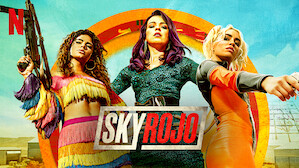
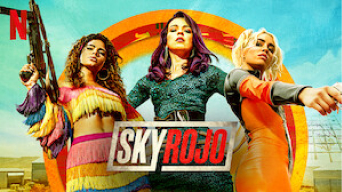
Adicionando responsividade e arrumando tamanho das fotos

diff --git a/assets/css/style.css b/assets/css/style.css
@@ -68,6 +68,11 @@ body {
   color: #FFF;
   font-family: "Roboto", "sans-serif";
 }
+@media (min-width: 375px) and (max-width: 800px) {
+  body {
+    width: calc(100% - 24px);
+  }
+}
 
 .app__background {
   height: 100vh;
@@ -75,6 +80,11 @@ body {
   background-repeat: no-repeat;
   background-size: cover;
   padding: 0.26rem 0.75rem 0 0.75rem;
+}
+@media (min-width: 375px) and (max-width: 800px) {
+  .app__background {
+    width: 111%;
+  }
 }
 
 .app__hero {
@@ -110,10 +120,19 @@ body {
 .header__list-item:hover {
   color: #FFF;
 }
+.header__list-item a {
+  text-decoration: none;
+  color: inherit;
+}
 .header__lists-right {
   display: flex;
   align-items: center;
   cursor: pointer;
+}
+@media (min-width: 375px) and (max-width: 800px) {
+  .header__lists-right {
+    display: none;
+  }
 }
 .header__list-right {
   padding: 0.5rem;
@@ -127,22 +146,35 @@ body {
   display: flex;
   flex-direction: column;
   justify-content: center;
-  width: 40%;
+  width: 30%;
   height: 80%;
   padding: 1rem;
+}
+@media (min-width: 375px) and (max-width: 800px) {
+  .main__banner {
+    width: 50%;
+  }
 }
 .main__subtitle {
   color: #FFF;
   margin: 1rem 0 1rem 0;
-  font-size: 1.2vw;
+  font-size: 1rem;
   line-height: 1.25;
+}
+@media (min-width: 375px) and (max-width: 800px) {
+  .main__subtitle {
+    font-size: 0.8rem;
+  }
+}
+.main__btn {
+  display: flex;
 }
 .main__button-watch, .main__info {
   border: none;
   border-radius: 2px;
   padding: 0.6rem 2rem;
   color: #000;
-  width: 30%;
+  width: auto;
   font-weight: bold;
   cursor: pointer;
 }
@@ -153,7 +185,6 @@ body {
   background-color: #ffffffc6;
 }
 .main__info {
-  width: 40%;
   background: #6d6d6eb3;
   margin-left: 1rem;
   color: #FFF;
@@ -163,6 +194,11 @@ body {
 }
 .main__category {
   padding: 1rem;
+}
+@media (min-width: 375px) and (max-width: 800px) {
+  .main__category {
+    padding: 0;
+  }
 }
 .main__title {
   font-size: 18px;
@@ -178,6 +214,11 @@ body {
 .main__item {
   margin-right: 1.5rem;
 }
+@media (min-width: 375px) and (max-width: 800px) {
+  .main__item {
+    margin-right: 0.5rem;
+  }
+}
 .main__item img {
   transition: all 0.3s;
   cursor: pointer;
@@ -185,6 +226,11 @@ body {
 .main__item img:hover {
   transform: scale(1.1);
   filter: opacity(0.5) drop-shadow(0 0 0 rgba(255, 255, 255, 0.421));
+}
+@media (min-width: 375px) and (max-width: 800px) {
+  .main__item img {
+    width: 15rem;
+  }
 }
 
 .footer {
@@ -207,6 +253,12 @@ body {
   padding: 1rem;
   line-height: 1.5rem;
   transition: all 1s linear;
+}
+@media (min-width: 375px) and (max-width: 800px) {
+  .footer__content-info {
+    flex-direction: column;
+    line-height: 2rem;
+  }
 }
 .footer__list {
   cursor: pointer;

diff --git a/index.html b/index.html
@@ -16,20 +16,21 @@
                 <div class="header__list">
                     <img class="header__img" src="assets/img/logo.png" alt="logo netflix">
                     <ul class="header__lists">
-                        <li class="header__list-item">ínicio</li>
-                        <li class="header__list-item">séries</li>
-                        <li class="header__list-item">filmes</li>
-                        <li class="header__list-item">bombando</li>
-                        <li class="header__list-item">minha lista</li>
+                        <li class="header__list-item">
+                            <a href="#">séries</a>
+                        </li>
+                        <li class="header__list-item">
+                            <a href="#">filmes</a>
+                        </li>
+                        <li class="header__list-item">
+                            <a href="#">categorias</a>
+                        </li>
                     </ul>
                 </div>
                 <div class="header__right">
                     <ul class="header__lists-right">
                         <li class="header__list-right">
                             <i class="fa-solid fa-magnifying-glass"></i>
-                        </li>
-                        <li class="header__list-right">
-                            <i class="fa-solid fa-bell"></i>
                         </li>
                         <li class="header__list-right">
                             <img src="assets/img/user.png" alt="">

diff --git a/assets/sass/pages/_main.scss b/assets/sass/pages/_main.scss
@@ -6,16 +6,28 @@
         display: flex;
         flex-direction: column;
         justify-content: center;
-        width: 40%;
+        width: 30%;
         height: 80%;
         padding: 1rem;
+
+        @include responsive {
+            width: 50%;
+        }
     }
 
     &__subtitle {
         color: #FFF;
         margin: 1rem 0 1rem 0;
-        font-size: 1.2vw;
+        font-size: 1rem;
         line-height: 1.25;
+
+        @include responsive {
+            font-size: .8rem;
+        }
+    }
+
+    &__btn {
+        display: flex;
     }
 
     &__button-watch, &__info {
@@ -23,7 +35,7 @@
         border-radius: 2px;
         padding: .6rem 2rem;
         color: $black;
-        width: 30%;
+        width: auto;
         font-weight: bold;
         cursor: pointer;
 
@@ -37,7 +49,6 @@
     }
 
     &__info {
-        width: 40%;
         background: $gray;
         margin-left: 1rem;
         color: $white;
@@ -49,6 +60,10 @@
 
     &__category {
         padding: 1rem;
+
+        @include responsive {
+            padding: 0;
+        }
     }
 
     &__title {
@@ -66,6 +81,10 @@
 
     &__item {
         margin-right: 1.5rem;
+
+        @include responsive {
+            margin-right: .5rem;
+        }
     }
 
     &__item img {
@@ -75,6 +94,10 @@
         &:hover {
             transform: scale(1.1);
             filter: opacity(.5) drop-shadow(0 0 0 $white-three); 
+        }
+
+        @include responsive {
+            width: 15rem;
         }
     }
 }

diff --git a/assets/js/app.js b/assets/js/app.js
@@ -48,19 +48,19 @@ const high = [
     },
     {
         image: 'assets/img/top10/poster_07.jpg',
-        name: 'Continência do amor'
+        name: 'Lúcifer'
     },
     {
         image: 'assets/img/top10/poster_08.jpg',
-        name: 'Agente Oculto'
+        name: 'Vis a Vis'
     },
     {
         image: 'assets/img/top10/poster_09.jpg',
-        name: 'Uncharted'
+        name: 'Fauda'
     },
     {
         image: 'assets/img/top10/poster_10.jpg',
-        name: 'Dupla Jornada'
+        name: 'O sucessor'
     }
 ]
 

diff --git a/assets/sass/pages/_header.scss b/assets/sass/pages/_header.scss
@@ -28,12 +28,21 @@
         &:hover {
             color: $white;
         }
+
+        a {
+            text-decoration: none;
+            color: inherit;
+        }
     }
 
     &__lists-right {
         display: flex;
         align-items: center;
         cursor: pointer;
+
+        @include responsive {
+            display: none;  
+        }
     }
 
     &__list-right {

diff --git a/assets/sass/pages/_footer.scss b/assets/sass/pages/_footer.scss
@@ -23,6 +23,11 @@
         padding: 1rem;
         line-height: 1.5rem;
         transition: all 1s linear;
+
+        @include responsive {
+            flex-direction: column;
+            line-height: 2rem;
+        }
     }
 
     &__list {

diff --git a/assets/sass/abstract/_variables.scss b/assets/sass/abstract/_variables.scss
@@ -9,6 +9,10 @@ $gray: #6d6d6eb3;
 $gray-two: #6d6d6e86;
 $font: 'Roboto', 'sans-serif';
 
+@mixin responsive {
+    @media (min-width: 375px) and (max-width: 800px) { @content; }
+}
+
 
 ::-webkit-scrollbar {
     width: 10px;

diff --git a/assets/sass/pages/_app.scss b/assets/sass/pages/_app.scss
@@ -11,6 +11,10 @@
     background-repeat: no-repeat;
     background-size: cover;
     padding: 0.26rem 0.75rem 0 0.75rem;
+
+    @include responsive {
+        width: 111%;
+    }
 }
 
 .app__hero {

diff --git a/assets/sass/layout/_body.scss b/assets/sass/layout/_body.scss
@@ -2,4 +2,8 @@ body {
     background-color: $black;
     color: $white;
     font-family: $font;
+
+    @include responsive {
+        width: calc(100% - 24px);
+    }
 }
